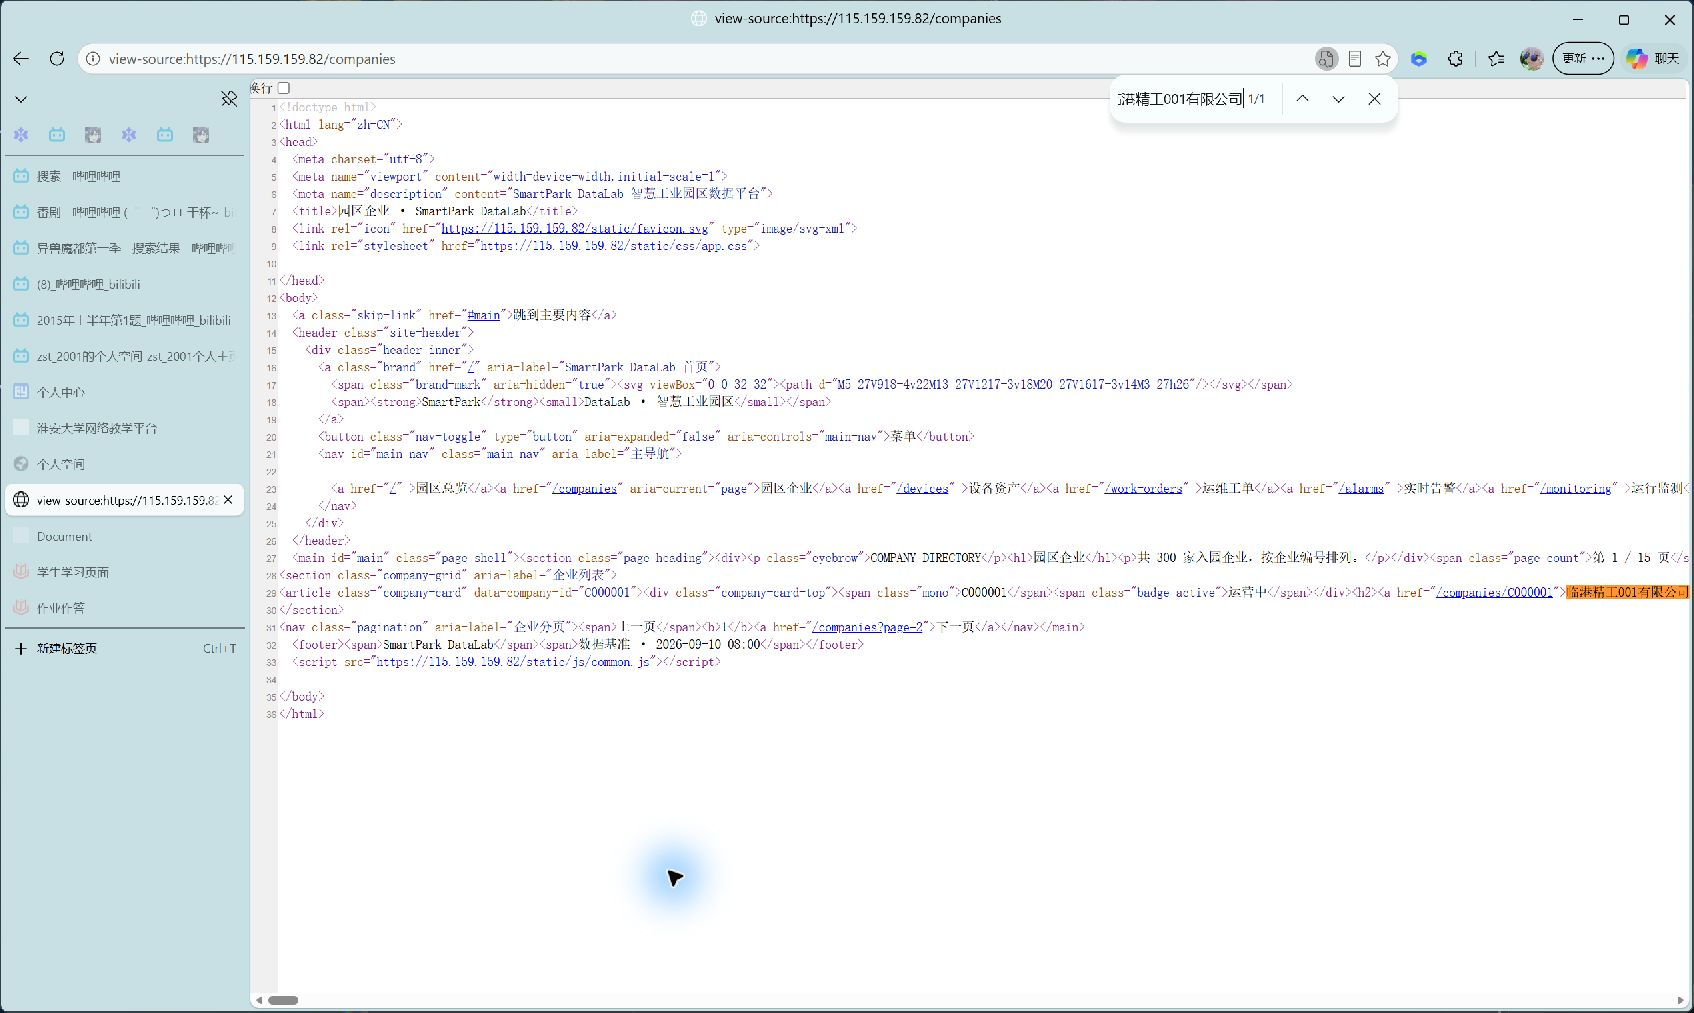
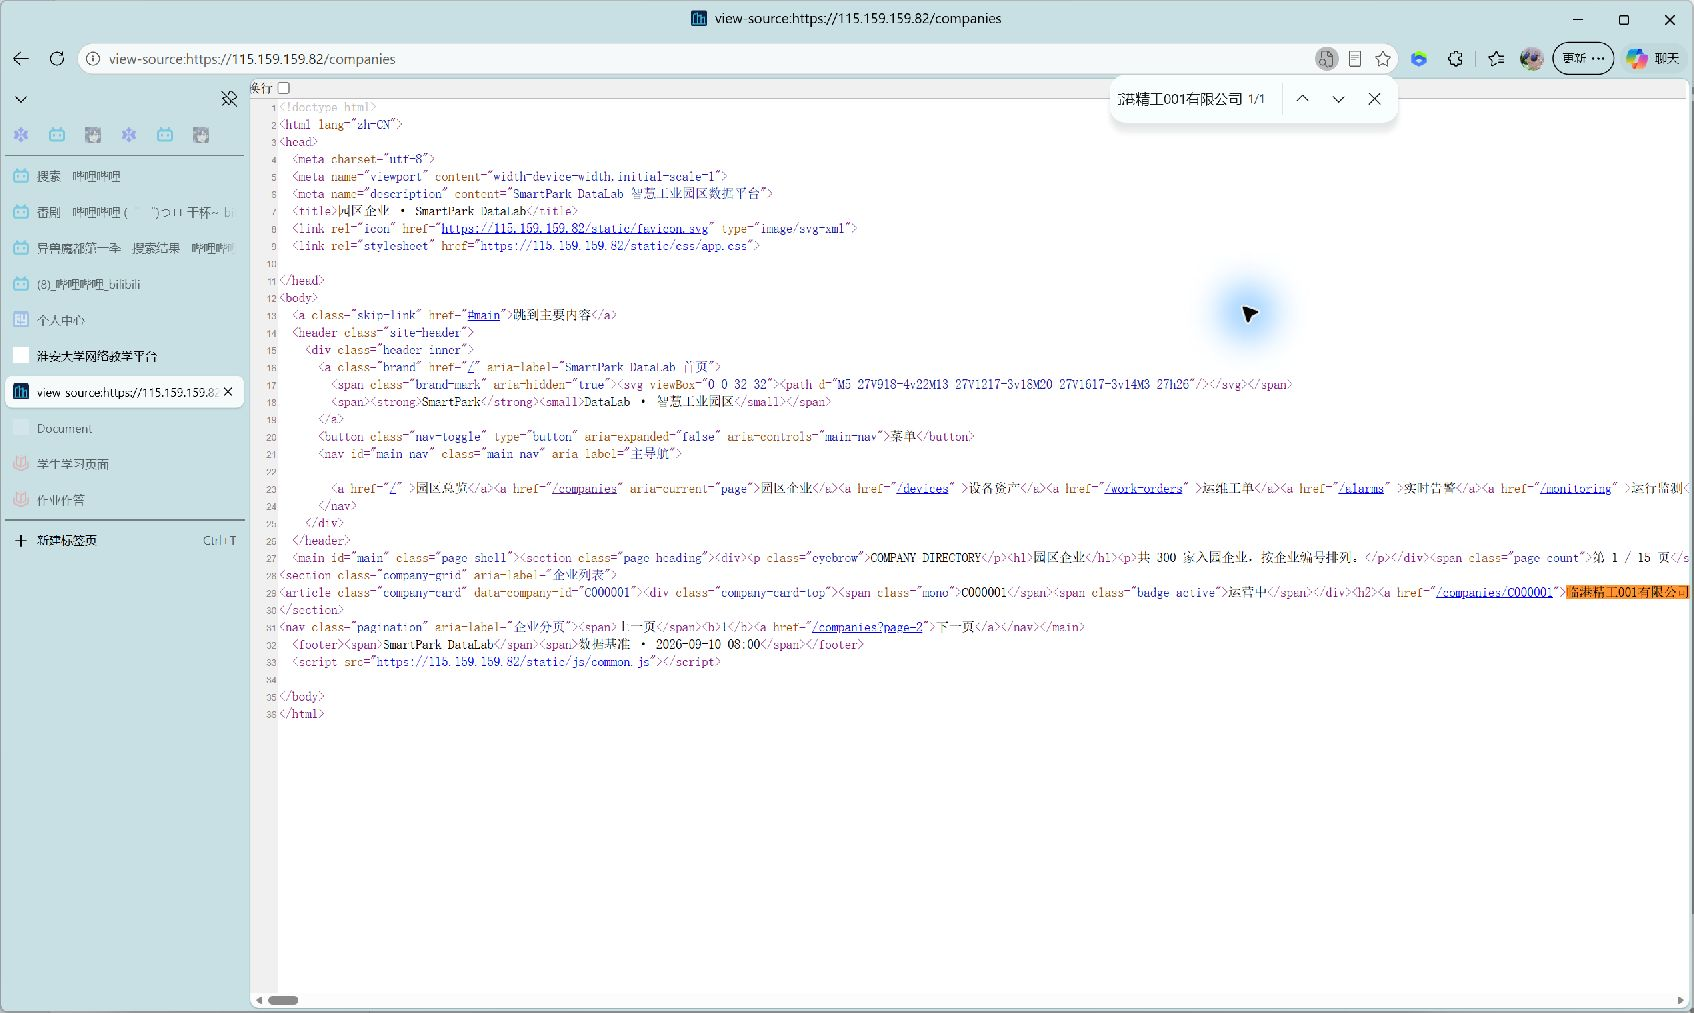
Add Lab 1 required evidence screenshots

diff --git a/lab01/REPORT.md b/lab01/REPORT.md
@@ -19,6 +19,8 @@
 - Request Method：`GET`
 - Query 参数：`page`、`page_size`；本实验采集时依次请求 `page=1..100`，`page_size=50`。
 
+![Device API 发现证据](images/01_device_api.png)
+
 
 ### 1.2 Company：判断静态加载
 
@@ -114,6 +116,8 @@ device_count = int(details["设备数量"].replace(" 台", ""))
 - “下一页” selector：`nav.pagination a:last-of-type`
 - 第 1 页 `href` 示例：`/companies?page=2`
 
+![Company 下一页元素](images/03_company_next.png)
+
 
 ### 4.2 关键代码
 
@@ -148,6 +152,8 @@ next_url = urljoin(current_url, next_href)
 | 唯一 `device_id` | 5000 |
 | Company–Device 不一致企业数 | 0 |
 
+![最终验证结果](images/04_validation.png)
+
 
 ### 5.2 一致性检查关键代码
 
@@ -172,4 +178,4 @@ for company in companies:
 
 ## 实验结论
 
-动态加载页面的初始 HTML 不含业务记录，应通过 Network 找到 API 后使用 JSON 分页参数采集；静态加载页面可直接请求 HTML，再由 BeautifulSoup 和 CSS Selector 解析。API 分页依赖 `page`、`page_size` 与 `total` 自动计算页数，HTML 分页则从当前页面读取“下一页”链接。实验通过总数、ID 唯一性和 Company–Device 设备数量比对验证采集结果。
+本实验先通过源代码和 Network 判断加载方式：Device 使用 API，通过 `total` 与 `page_size` 自动分页采集；Company 直接解析 HTML，并读取“下一页” `href` 连续翻页。随后用总数、ID 去重及 Company–Device 设备数比对完成验证，并保存 JSON 结果。
